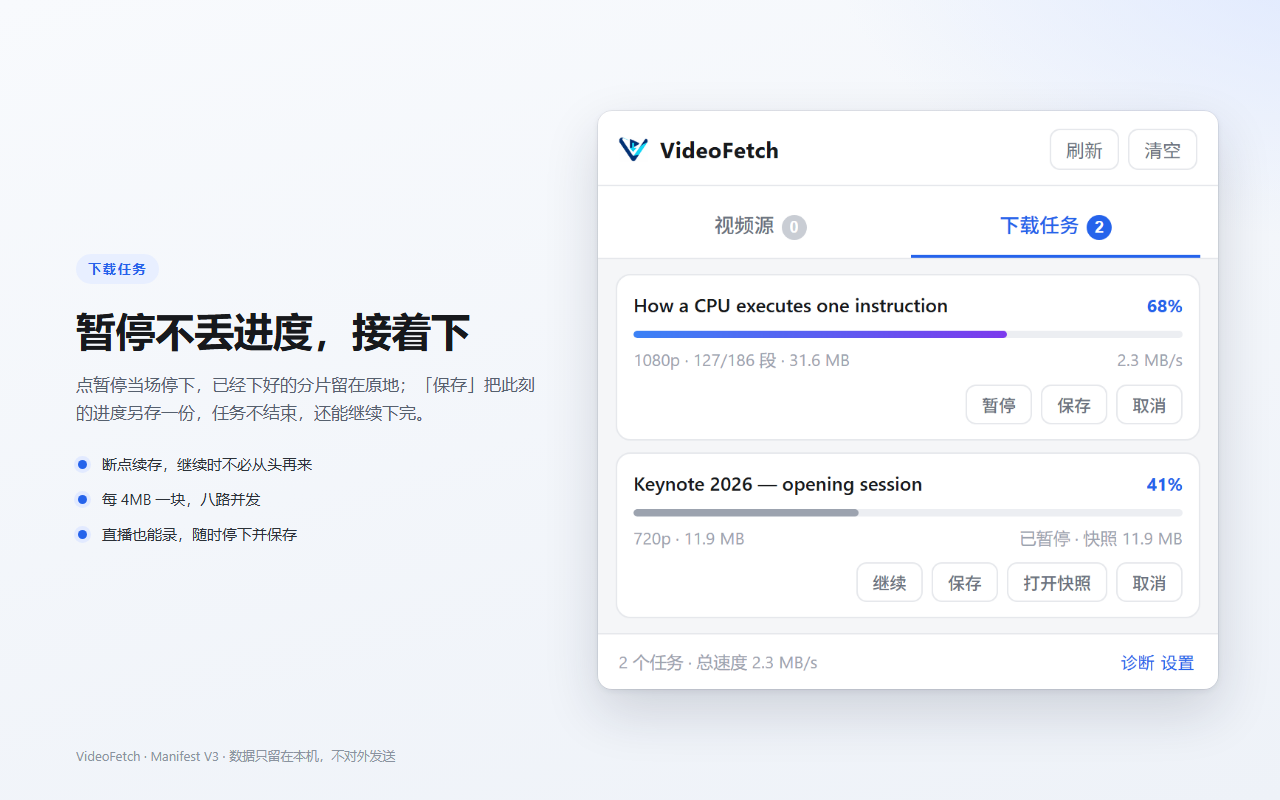
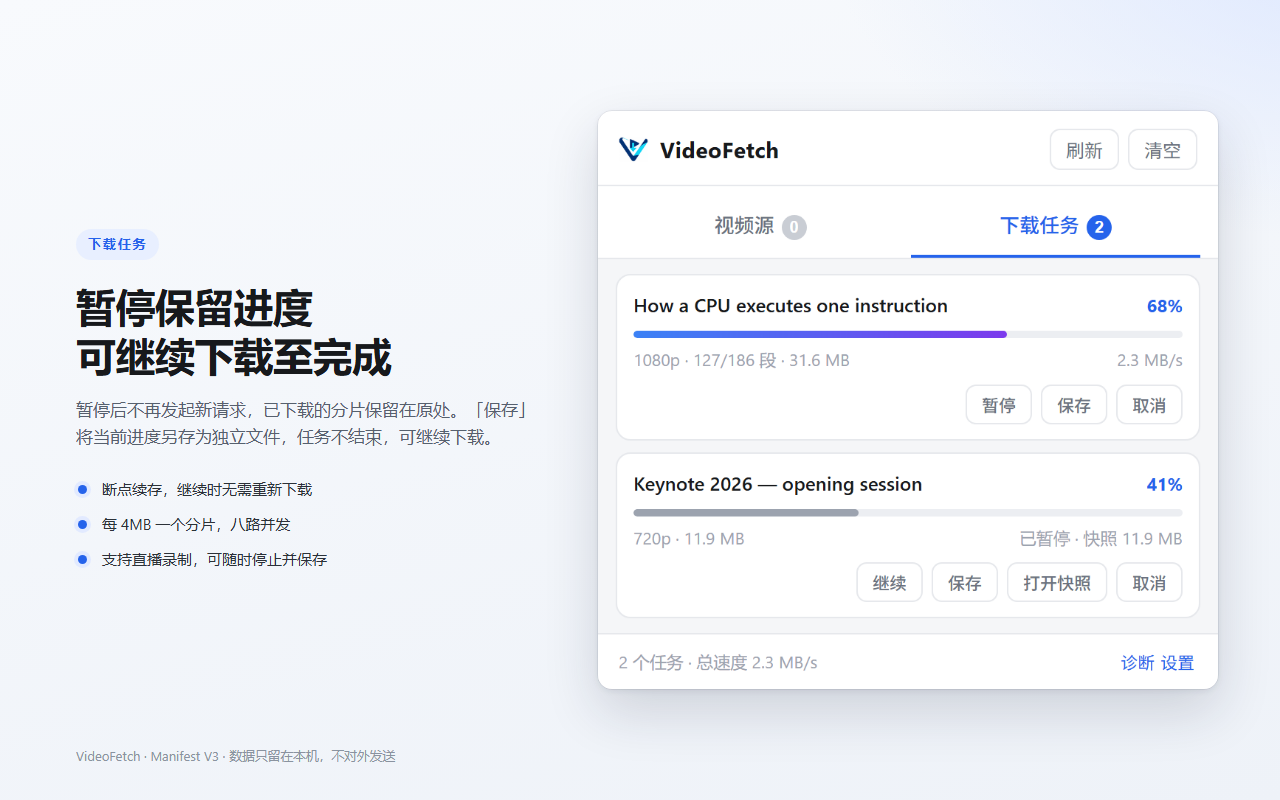
store: put screenshot-2 copy in a written register

Changed region(s): [[0.0625, 0.2812, 0.4375, 0.7188]]

diff --git a/_shots/frame.html b/_shots/frame.html
@@ -46,7 +46,10 @@
       color: #56606e;
       max-width: 470px;
       margin-bottom: 26px;
+      text-wrap: pretty;
     }
+    /* 「保存」这类按钮名被劈成「「保 / 存」」很难看，整体不拆 */
+    .nw { white-space: nowrap; }
     ul { list-style: none; display: flex; flex-direction: column; gap: 11px; }
     li {
       position: relative;
@@ -102,15 +105,20 @@
 
   <script>
     const q = new URLSearchParams(location.search);
+    const esc = (s) => s.replace(/[&<>]/g, (c) => ({ '&': '&amp;', '<': '&lt;', '>': '&gt;' })[c]);
     const put = (id, v) => { if (v) document.getElementById(id).textContent = v; };
     put('eyebrow', q.get('eyebrow'));
     // 标题里的 \n 是手工断行：免得浏览器按字宽把短语劈成「…screen / recording」
     const title = q.get('t');
     if (title) {
-      const esc = (s) => s.replace(/[&<>]/g, (c) => ({ '&': '&amp;', '<': '&lt;', '>': '&gt;' })[c]);
       document.getElementById('title').innerHTML = title.split('\n').map(esc).join('<br>');
     }
-    put('desc', q.get('d'));
+    // 说明里的「按钮名」整段不拆行
+    const desc = q.get('d');
+    if (desc) {
+      document.getElementById('desc').innerHTML =
+        esc(desc).replace(/「([^」]*)」/g, '<span class="nw">「$1」</span>');
+    }
     put('foot', q.get('foot'));
     document.getElementById('img').src = q.get('img');
     if (q.get('wide')) document.getElementById('shot').classList.add('wide');

diff --git a/_dev/make-store-art.py b/_dev/make-store-art.py
@@ -183,9 +183,9 @@ FRAMES = [
         file='screenshot-2-tasks-zh.png',
         img='tasks-zh.png',
         eyebrow='下载任务',
-        t='暂停不丢进度，接着下',
-        d='点暂停当场停下，已经下好的分片留在原地；「保存」把此刻的进度另存一份，任务不结束，还能继续下完。',
-        b='断点续存，继续时不必从头再来|每 4MB 一块，八路并发|直播也能录，随时停下并保存',
+        t='暂停保留进度\n可继续下载至完成',
+        d='暂停后不再发起新请求，已下载的分片保留在原处。「保存」将当前进度另存为独立文件，任务不结束，可继续下载。',
+        b='断点续存，继续时无需重新下载|每 4MB 一个分片，八路并发|支持直播录制，可随时停止并保存',
         foot='VideoFetch · Manifest V3 · 数据只留在本机，不对外发送',
     ),
     dict(
